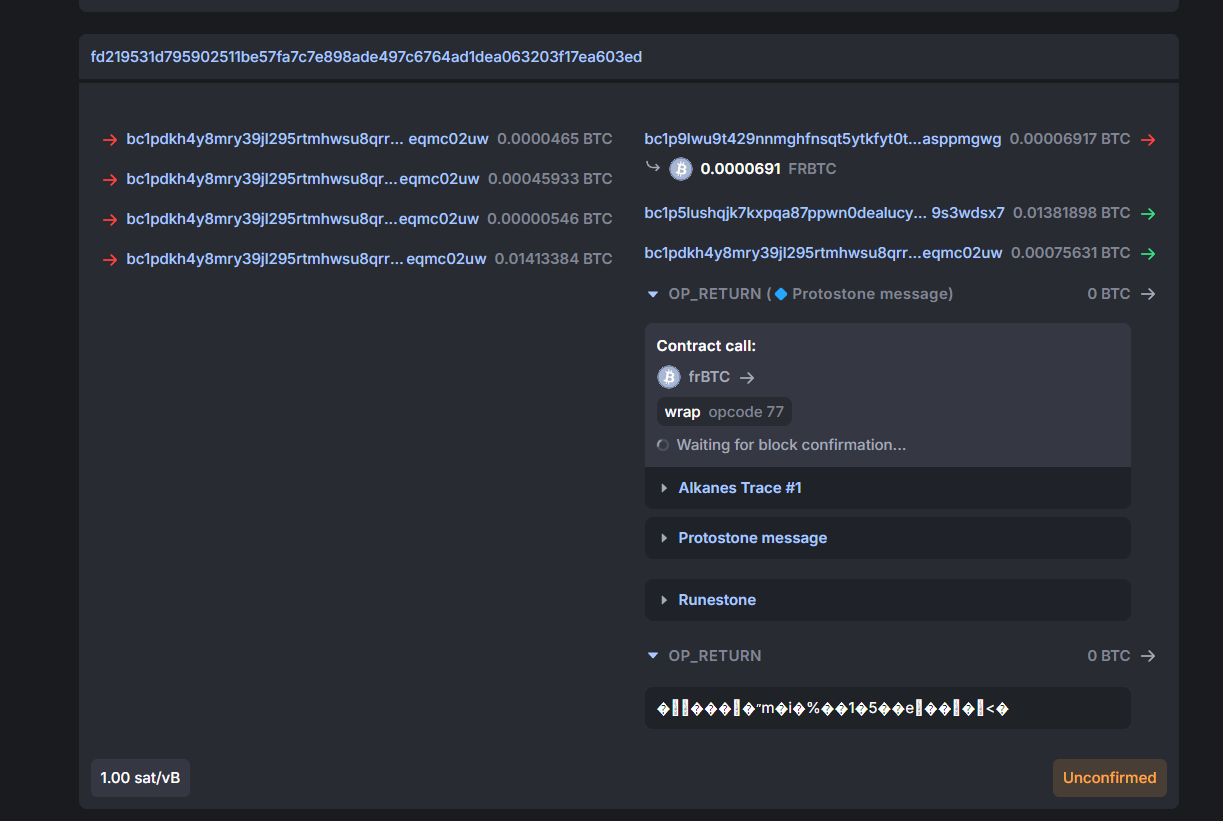
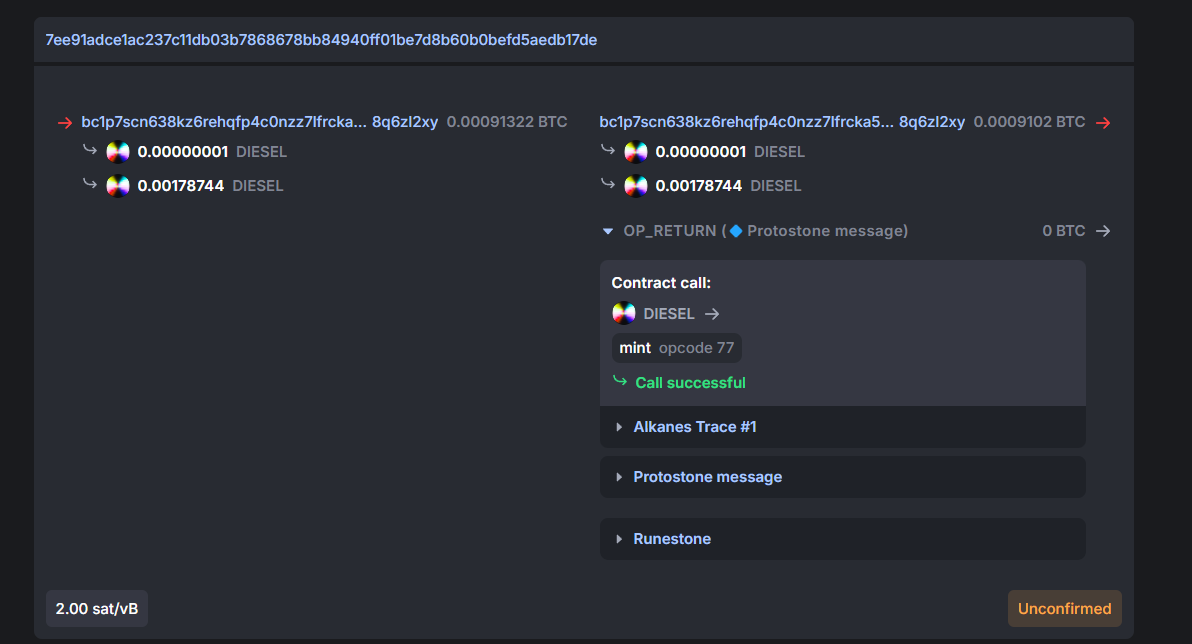
fix: Diesel+UG mints not working regression

diff --git a/src/explorer/pages/block.rs b/src/explorer/pages/block.rs
@@ -55,7 +55,7 @@ use crate::runtime::mempool::{
 };
 use crate::runtime::mempool_projection::MempoolProjectionRegistry;
 use crate::runtime::state_at::StateAt;
-use crate::schemas::EspoOutpoint;
+use crate::schemas::{EspoOutpoint, SchemaAlkaneId};
 
 fn format_with_commas(n: u64) -> String {
     let mut s = n.to_string();
@@ -325,6 +325,7 @@ pub(crate) fn mempool_block_projected_balances(
         if projected.is_empty() {
             continue;
         }
+        let projected = sanitize_diesel_ug_projection(item, projected);
 
         for (vout, entries) in &projected {
             projected_by_outpoint.insert((item.txid, *vout), entries.clone());
@@ -333,6 +334,38 @@ pub(crate) fn mempool_block_projected_balances(
     }
 
     projected_by_tx
+}
+
+fn sanitize_diesel_ug_projection(
+    item: &MempoolBlockTx,
+    mut projected: HashMap<u32, Vec<BalanceEntry>>,
+) -> HashMap<u32, Vec<BalanceEntry>> {
+    const DIESEL_ID: SchemaAlkaneId = SchemaAlkaneId { block: 2, tx: 0 };
+    let has_ug_mint = item
+        .rune_io
+        .as_ref()
+        .map(|io| io.minted.iter().any(|minted| minted.id.block == 1 && minted.id.tx == 0))
+        .unwrap_or(false);
+    if !has_ug_mint {
+        return projected;
+    }
+
+    for entries in projected.values_mut() {
+        let diesel_rows = entries.iter().filter(|entry| entry.alkane == DIESEL_ID).count();
+        if diesel_rows <= 1 {
+            continue;
+        }
+        let mut removed_one_unit = false;
+        entries.retain(|entry| {
+            if !removed_one_unit && entry.alkane == DIESEL_ID && entry.amount == 1 {
+                removed_one_unit = true;
+                false
+            } else {
+                true
+            }
+        });
+    }
+    projected
 }
 
 pub async fn block_page(

diff --git a/src/runtime/mempool.rs b/src/runtime/mempool.rs
@@ -22,11 +22,10 @@ use crate::runtime::shutdown::is_shutdown_requested;
 use crate::runtime::state_at::StateAt;
 use crate::schemas::{EspoOutpoint, SchemaAlkaneId};
 use anyhow::{Context, Result};
-use bitcoin::blockdata::script::Instruction;
 use bitcoin::consensus::Encodable;
 use bitcoin::consensus::encode::deserialize;
 use bitcoin::hashes::Hash;
-use bitcoin::{Address, Network, OutPoint, Transaction, Txid, opcodes};
+use bitcoin::{Address, Network, OutPoint, Transaction, Txid};
 use bitcoincore_rpc::RpcApi;
 use futures::{StreamExt, stream};
 use ordinals::{Artifact, Edict, RuneId, Runestone};
@@ -503,18 +502,7 @@ fn protostones_for_tx(tx: &Transaction) -> Vec<Protostone> {
     }
 }
 
-fn tx_has_runestone_carrier(tx: &Transaction) -> bool {
-    tx.output.iter().any(|output| {
-        let mut instructions = output.script_pubkey.instructions();
-        matches!(instructions.next(), Some(Ok(Instruction::Op(opcodes::all::OP_RETURN))))
-            && matches!(instructions.next(), Some(Ok(Instruction::Op(opcodes::all::OP_PUSHNUM_13))))
-    })
-}
-
 fn is_uncommon_goods_mint_tx(tx: &Transaction) -> bool {
-    if !tx_has_runestone_carrier(tx) {
-        return false;
-    }
     Runestone::decipher(tx)
         .as_ref()
         .and_then(|artifact| artifact.mint())
@@ -733,7 +721,7 @@ fn project_rune_io_for_block(
         let Some(tx) = txs.get(txid).and_then(|entry| entry.tx.as_ref()) else {
             continue;
         };
-        let artifact = tx_has_runestone_carrier(tx).then(|| Runestone::decipher(tx)).flatten();
+        let artifact = Runestone::decipher(tx);
         let mut io = TxRuneIo::default();
         let mut unallocated: RuneSheet<SchemaRuneId> = BTreeMap::new();
 